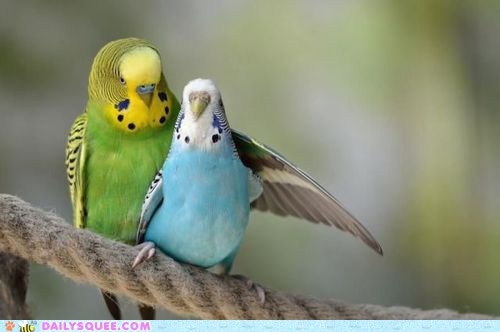
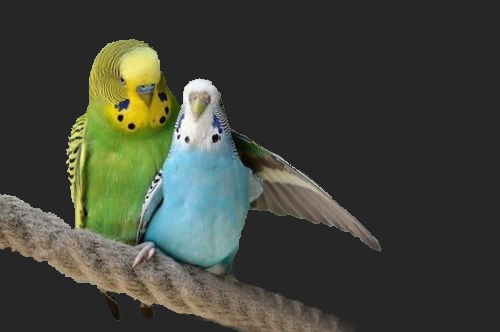
Animated Sticky Navbar

diff --git a/public/css/mystyle.css b/public/css/mystyle.css
@@ -1,16 +1,16 @@
 body {
 	background: #fff;
-	overflow: hidden;
+	overflow: auto;
 	margin: 0;
 	padding: 0;
 }
+
 .innericon {
 	position: fixed;
 	top: 0;
 	right: -400px;
 	width: 400px;
 	height: 100%;
-	cursor: pointer;
 	background: #262626;
 	transition: .2s;
 
@@ -26,9 +26,9 @@ body {
 	width: 90px;
 	height: 90px;
 	box-sizing: border-box;
-	cursor: pointer;
 	border: none;
 	outline: none;
+	cursor: pointer;
 }
 .hamburger {
 	width: 50px;
@@ -97,4 +97,72 @@ body {
 	display: block;
 	text-decoration: none;
 	border-bottom: 1px solid rgba(0,0,0,.2);
+}
+
+nav {
+	position: fixed;
+	top: -100px;
+	left: 0;
+	width: 100%;
+	height: 100px;
+	padding: 10px 100px;
+	box-sizing: border-box;
+	transition: .2s;
+	background: #262626;
+
+}
+
+
+nav .logo {
+	float: left;
+
+}
+
+nav .logo img {
+	width: 120px;
+	transition: .2s;
+	margin-left: 30px;
+}
+
+nav ul {
+	float: right;
+	margin: 0;
+	padding: 0;
+	display: flex;
+	padding-left: 340px;
+}
+
+nav ul li {
+	list-style: none;
+}
+
+nav ul li a {
+	line-height: 80px;
+	color: #fff;
+	text-decoration: none;
+	padding: 5px 20px;
+	font-family: "ArchyEDT-Bold", sans-serif;
+	font-size: 25px;
+	transition: .2s;
+}
+
+nav ul li a:hover,
+nav ul li a.act {
+	color: #fff;
+	text-decoration: none;
+}
+
+nav.black {
+	top: 0;
+}
+
+section.image-background {
+	width: 100%;
+	height: 100vh;
+	background-size: cover;
+}
+
+
+section.content {
+	padding: 100px;
 }

diff --git a/public/js/script.js b/public/js/script.js
@@ -6,3 +6,21 @@ $(document).ready(function(){
 		$('.icon').removeClass('active');
 	})
 })
+
+$(window).on('scroll', function(){
+	if ($(window).scrollTop()){
+	
+		$('.icon').removeClass('active');
+	}
+})
+
+
+$(window).on('scroll', function(){
+	if ($(window).scrollTop()){
+	
+		$('nav').addClass('black');
+	}
+	else {
+		$('nav').removeClass('black');
+	}
+})

diff --git a/public/css/reset.css b/public/css/reset.css
@@ -41,6 +41,7 @@ table {
 	border-collapse: collapse;
 	border-spacing: 0;
 }
+
 img {
 	width: 100%;
 }

diff --git a/resources/views/home.blade.php b/resources/views/home.blade.php
@@ -13,8 +13,8 @@
     <script src="https://code.jquery.com/jquery-3.3.1.js"></script>
     <script type="text/javascript" src="{{ url('js/script.js') }}"></script>
 </head>
-<body>
-
+<body> 
+   
     <!-- pre loader -->
     <div  class="preloader">
 
@@ -25,7 +25,10 @@
 
     <header>
 
-        <img class="image-background" src="{{ url('image/15.jpg') }}" alt="parrot">
+        
+        <section class="image-background">
+            <img src="{{ url('image/15.jpg') }}" alt="parrot">
+        </section>
 
         <div class="icon">
             <div class="innericon">
@@ -40,21 +43,39 @@
             <div class="hamb">
                 <div class="hamburger"></div>
             </div>
-      </div>
+        </div>
 
-
-        <!-- <nav>
-            <ul>
-                <li>მთავარი</li>
-                <li>თუთიყუშები</li>
-                <li>გალერეა</li>
-                <li>ბლოგი</li>
-                <li>კონტაქტი</li>
-            </ul>
-        </nav>
-        <div class="clear"></div> -->
     </header>
     
+    <nav>
+        <div class="logo">
+            <img src="{{ url('image/1.jpg') }}">
+            <ul>
+                <li><a href="#" class="act">მთავარი</a></li>
+                <li><a href="#">თუთიყუშები</a></li>
+                <li><a href="#">გალერეა</a></li>
+                <li><a href="#">ბლოგი</a></li>
+                <li><a href="#">კონტაქტი</a></li>
+            </ul>
+        </div>
+    </nav>
+
+    <section class="content"><p>
+    ფიზიკოსები უკვე დიდი ხანია ამტკიცებენ, რომ მატერიალური სამყარო სხვა არაფერია, თუ არა ენერგიის უზარმაზარი ზღვა, რომელიც გამუდმებით ვიბრირებს. სიმყარე არ არსებობს, იგი ილუზიაა — ესაა კვანტური ფიზიკის საფუძველი .</p>
+    <p>
+        რა იჭერს ამ მუდმივად ცვლად ენერგიას გარკვეული ტიპის საგნებად თუ სხეულებად? საინტერესოა, რატომ ვხედავთ ადამიანს ნაცვლად ვიბრირებადი ენერგიისა? — ისინი ამბობენ, რომ ამას ჩვენი ფიქრები აკეთებენ.
+    </p><p>
+        მაინც როგორ მუშაობს ყველაფერი ეს? გავიხსენოთ კინოფირი, სადაც წამში 24 კადრია, რომლებიც ერთმანეთისაგან პატარა სიცარიელით გამოიყოფა, მაგრამ იმ სიჩქარის გამო, რითაც ერთი კადრი ენაცვლება მეორეს ჩვენი თვალი მოტყუებული რჩება და მას აღვიქვამთ, როგორც მოძრავ გამოსახულებას.
+    </p><p>
+    ტელევიზორის შემთხვევაშიც იგივე პრინციპი მუშაობს — ელექტრონების დიდი რაოდენობა განსაზღვრული წესრიგით ეხეთქება ეკრანს და ქმნის ფორმებისა და მოძრაობის ილუზიას. სწორედ ასე არიან საგნები ჩვენს ირგვლივ.  ის, რაც სიმყარედ გვეჩვენება, სულაც არაა მყარი.</p>
+</section>
+<section class="sec2"></section>
+<section class="content"><p>
+ყველამ ვიცით 5 გრძნობის შესახებ — ხედვა, სმენა, შეხება, სუნი და გემო. ყველა მათგანს აქვს განსხვავებული დიაპაზონი ( მაგ: ძაღლს სმენის სხვა დიაპაზონი აქვს, გველი კი ხედავს სინათლის განსხვავებულ სპექტრს და ა.შ.) სხვა სიტყვებით, ჩვენი შეგრძნებები აღიქვამენ ენერგიის ამ ულევ ზღვას მეტისმეტად ლიმიტირებული გადმოსახედიდან და სწორედ ამის მიხედვით ვაწყობთ საბოლოო სურათს. ეს სურათი ვერ იქნება სრული და ზუსტი, რადგან ადამიანის გრძნობის ორგანოები არაა უნივერსალური,  შეზღუდულია…  ჩვენი აღქმები მხოლოდ ცალმხრივი ინტერპრეტაცია და ილუზიაა.</p>
+<p>
+    ყველა ჩვენი ინტერპრეტაცია უბრალოდ დაფუძვნებულია რეალობის ხედვის შინაგან რუკაზე და არა უპირობო სიმართლეზე. ეს რუკა ადამიანთა მოდგმის კოლექტიური გამოცდილების შედეგადაა შედგენილი.
+</p>
+</section>
 </body>
 
 </html>
